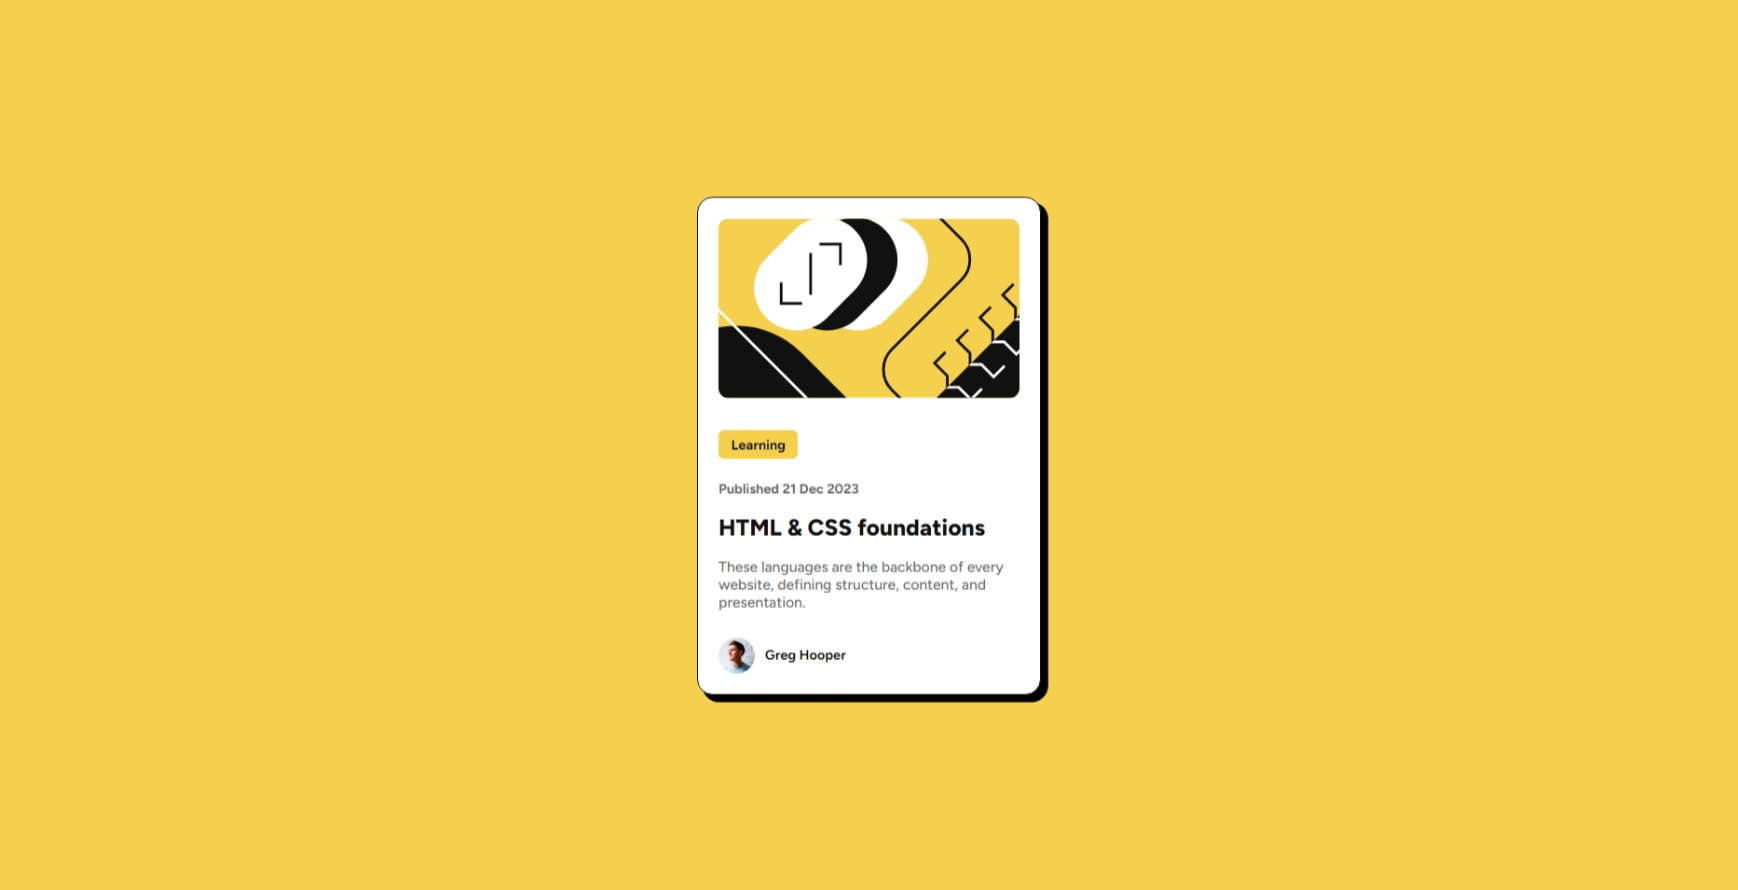
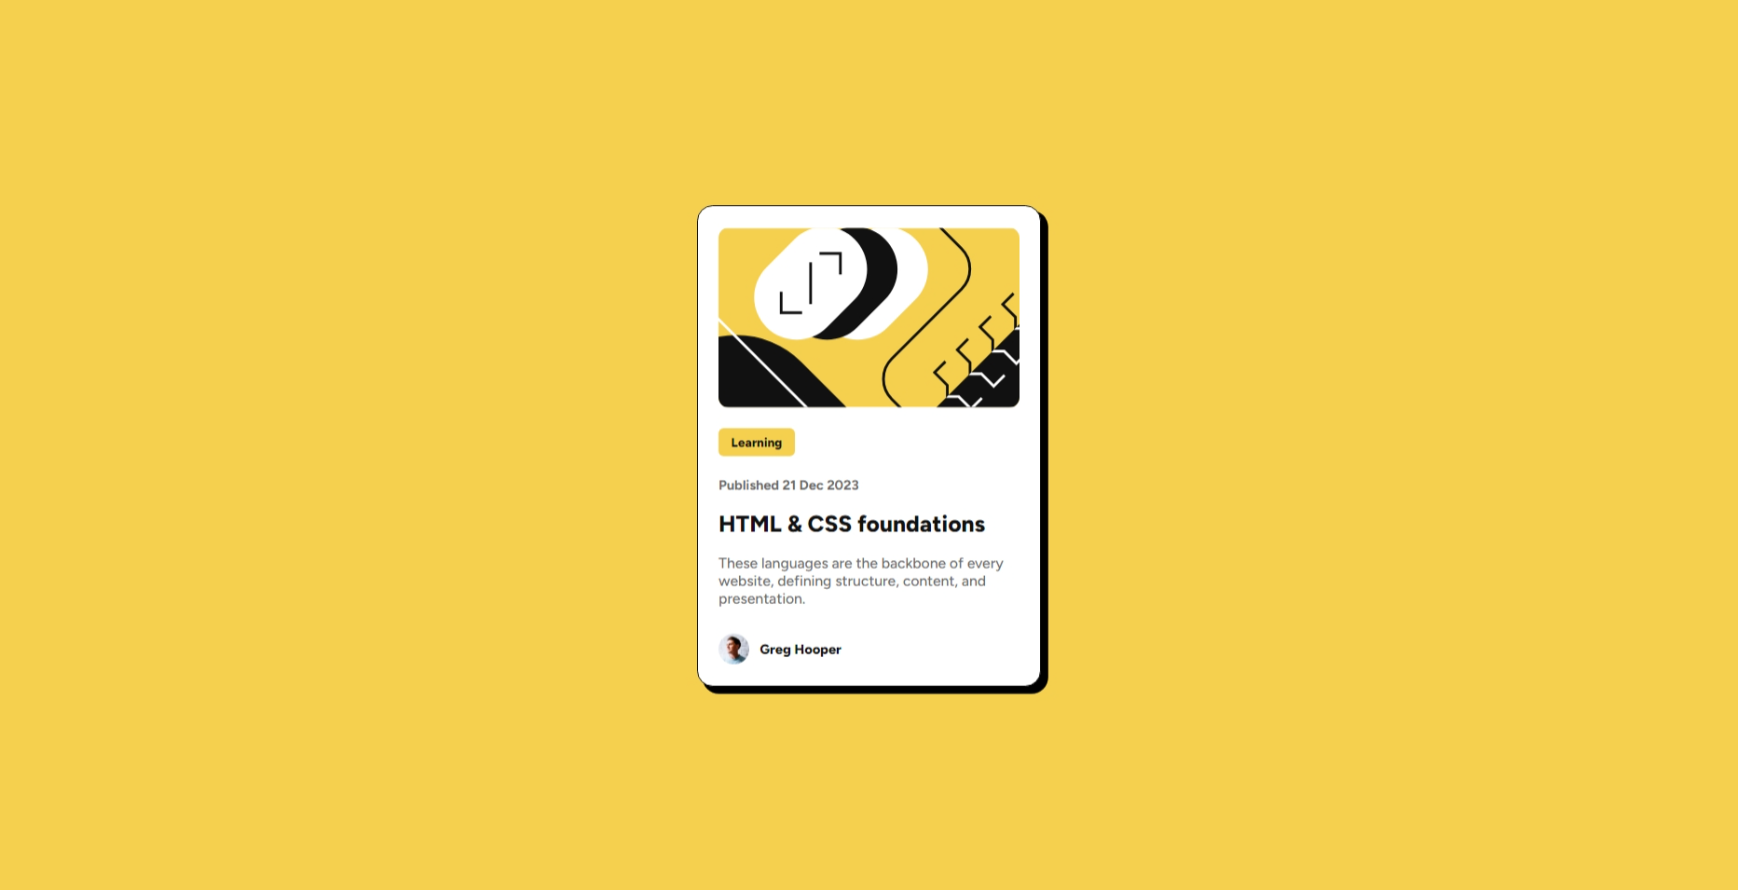
Final changes

Changed region(s): [[0.4039, 0.2124, 0.6214, 0.7888]]

diff --git a/style.scss b/style.scss
@@ -74,12 +74,12 @@
   .card__button {
     display: inline;
     padding: .6rem 1.2rem;
-    margin-top: 3rem;
+    margin-top: 2rem;
     margin-bottom: 2rem;
     background-color: var(--color-yellow);
     color: var(--color-gray-950);
-    font-size: 1.3rem;
-    font-weight: 700;
+    font-size: 1.2rem;
+    font-weight: 800;
     border: none;
     border-radius: .5rem;
     cursor: pointer;
@@ -108,13 +108,13 @@
         margin-left: 1rem;
         font-size: 1.3rem;
         color: var(--color-gray-950);
-        font-weight: 700;
+        font-weight: 800;
     }
 
 .card__author--image {
     
-    max-width: 3.5rem;
-    max-height: 3.5rem;
+    max-width: 3rem;
+    max-height: 3rem;
 }
   
 

diff --git a/style.css b/style.css
@@ -72,12 +72,12 @@ h1:hover {
 .card__button {
   display: inline;
   padding: 0.6rem 1.2rem;
-  margin-top: 3rem;
+  margin-top: 2rem;
   margin-bottom: 2rem;
   background-color: var(--color-yellow);
   color: var(--color-gray-950);
-  font-size: 1.3rem;
-  font-weight: 700;
+  font-size: 1.2rem;
+  font-weight: 800;
   border: none;
   border-radius: 0.5rem;
   cursor: pointer;
@@ -107,10 +107,10 @@ img {
   margin-left: 1rem;
   font-size: 1.3rem;
   color: var(--color-gray-950);
-  font-weight: 700;
+  font-weight: 800;
 }
 
 .card__author--image {
-  max-width: 3.5rem;
-  max-height: 3.5rem;
+  max-width: 3rem;
+  max-height: 3rem;
 }/*# sourceMappingURL=style.css.map */
